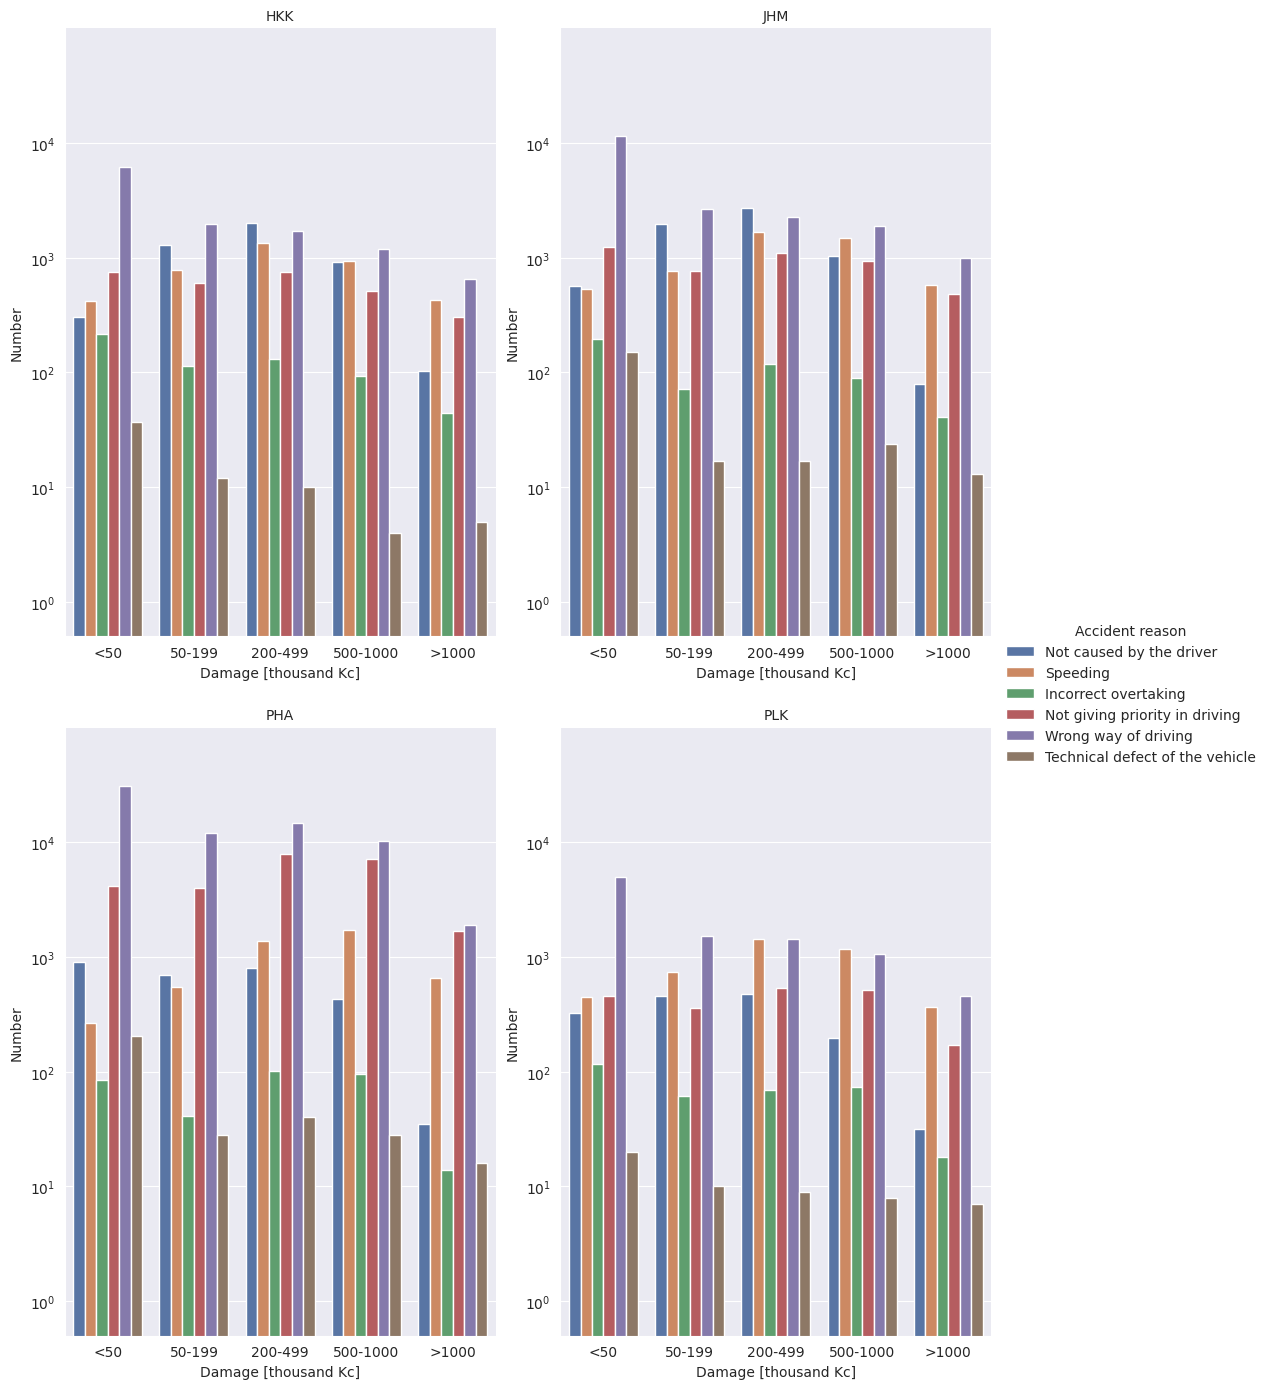
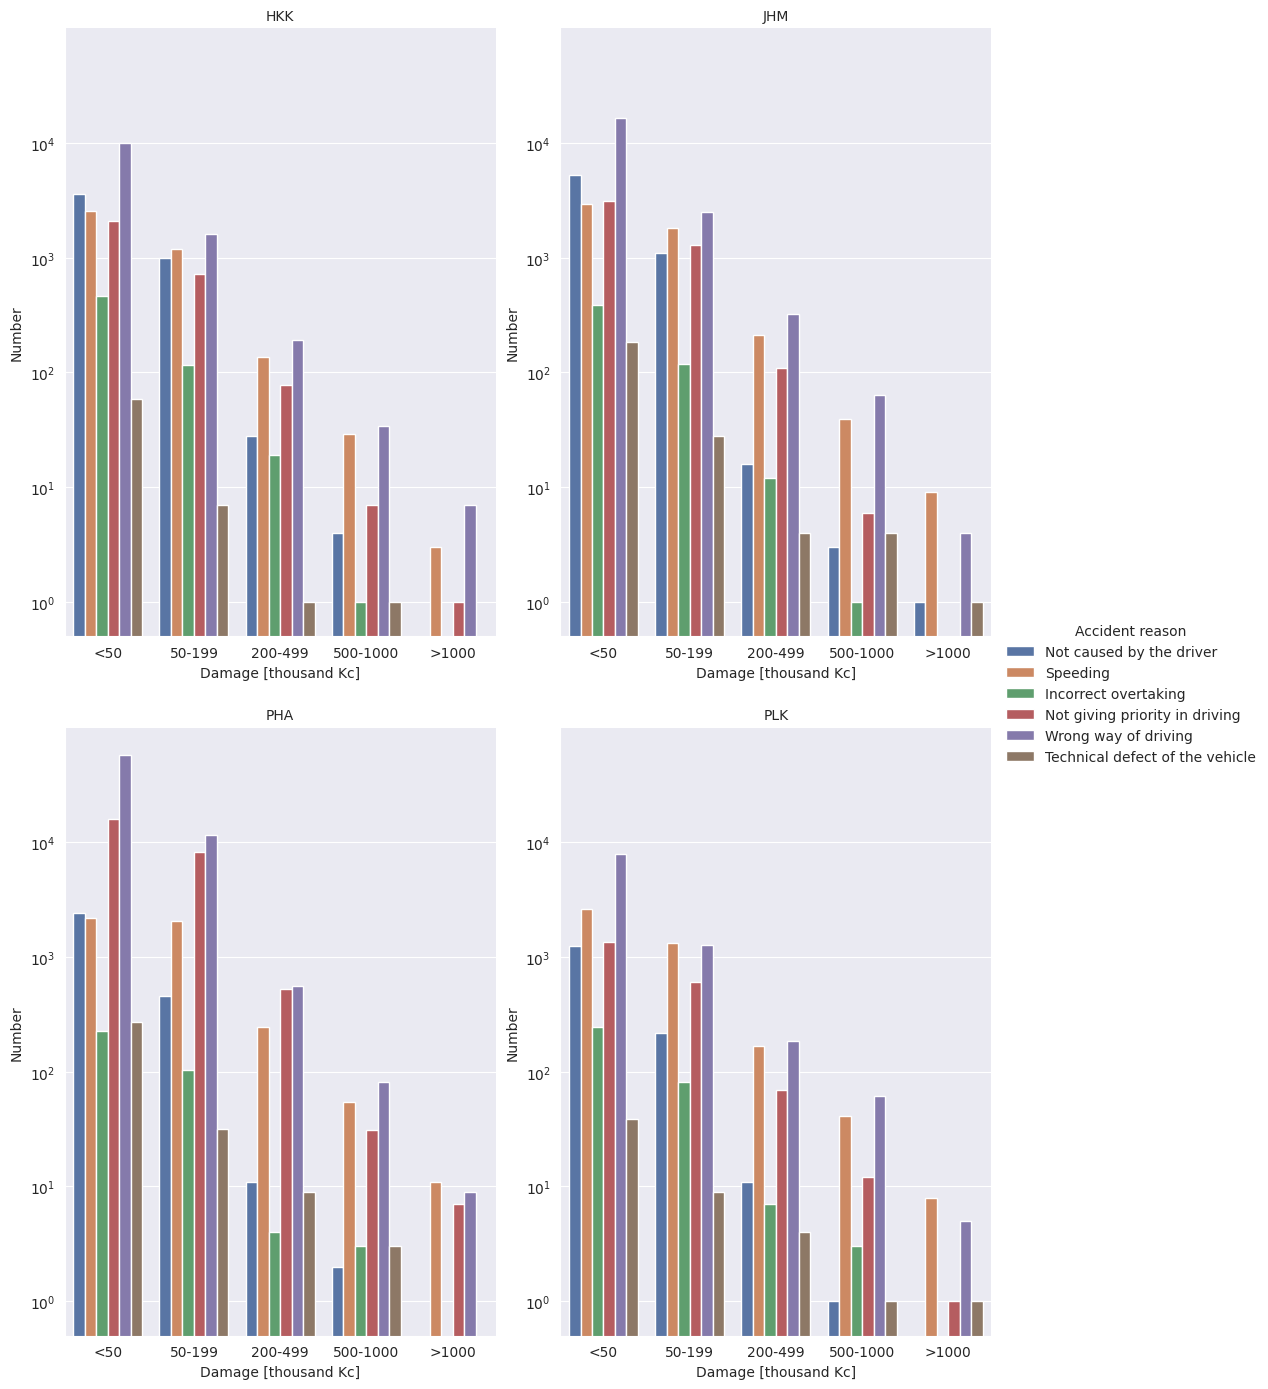
Fix 02 h -> th

diff --git a/2_Project/analysis.py b/2_Project/analysis.py
@@ -205,11 +205,11 @@ def plot_damage(df: pd.DataFrame, fig_location: str = None,
            '200-499',
            '500-1000',
            '>1000']
-    bins = [(-1, 49.99),
-            (49.99, 199.99),
-            (199.99, 499.99),
-            (499.99, 1000),
-            (1000, float('inf'))]
+    bins = [(-1, 499.99),
+            (499.99, 1999.99),
+            (1999.99, 4999.99),
+            (4999.99, 10000),
+            (10000, float('inf'))]
     index = pd.IntervalIndex.from_tuples(bins)
     df['p53b'] = pd.CategoricalIndex(pd.cut(df['p53'], index)
                                      ).rename_categories(
@@ -218,7 +218,7 @@ def plot_damage(df: pd.DataFrame, fig_location: str = None,
     # Group by objects to get better view
     df = df.groupby(['region', 'p53b', 'p12']
                     ).agg({'p53': 'count'}).reset_index()
-
+                    
     # Set sns style
     sns.set_style("darkgrid")
     # Create grid for subplots
